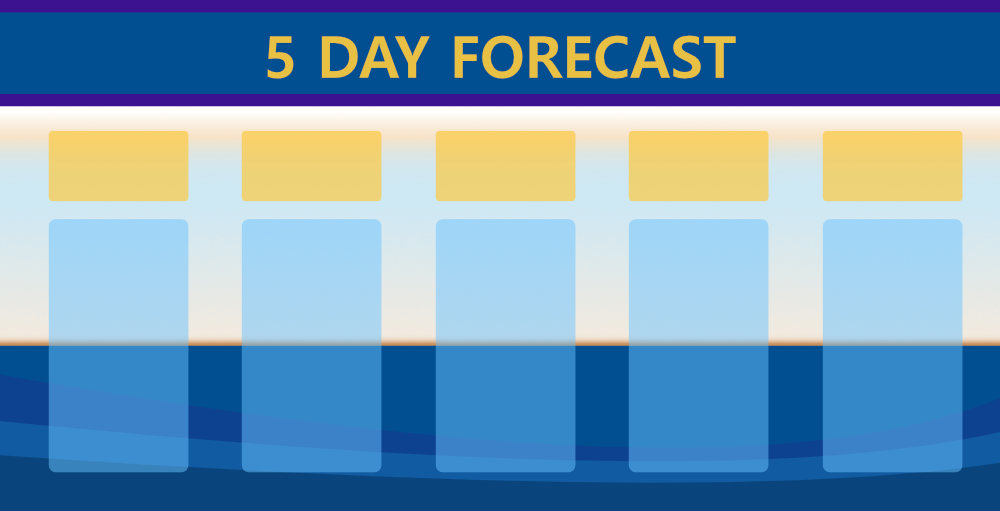
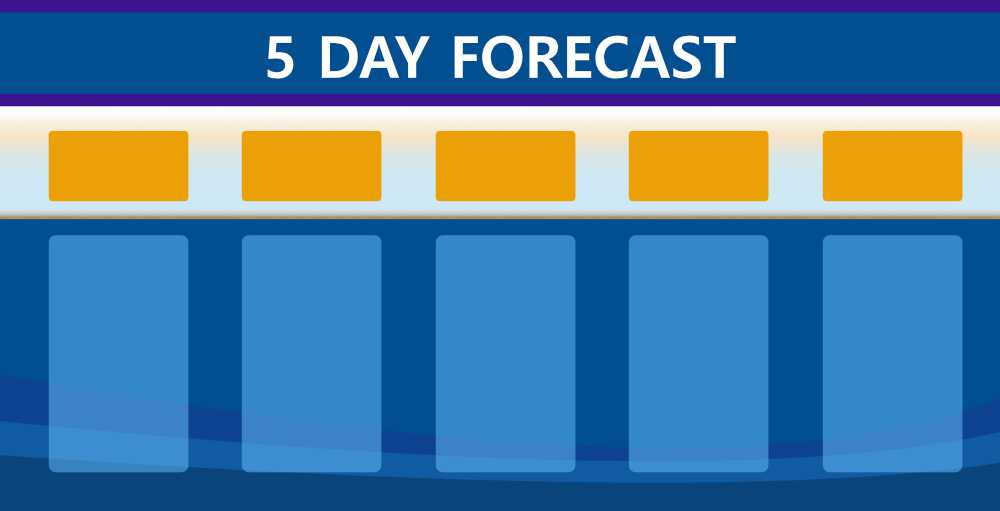
5

diff --git a/lesson-10/preston-10.css b/lesson-10/preston-10.css
@@ -30,22 +30,32 @@ a:link, a:visited {
   font-size: 1.6em;
 }
 
-#fiveDayColumns{
+.fiveDayColumns{
+   font-family: 'abel', sans-serif;
+  font-size: .9em;
+  font-weight: 900;
+    color: white;
+  text-shadow:
+   -.5px -.5px 0 blue;
   display: grid;
-  grid: "myArea myArea myArea myArea myArea"
-  font-size: .6em;
-  grid-gap: 5px;
-  padding: 20px 20px 20px 20px;
-  margin: 20px 20px 20px 20px;
+  height: 300px;
+  width: 100%;
+  padding: 190px 10px 0px 10px;
+  grid-template-columns: repeat(5, 1fr);
+  grid-template-rows: repeat(3, 1fr);
+  grid-column-gap: 5px;
+  grid-row-gap: -200px; 
   text-align: center;
   background: url(https://plewekat.github.io/images/5day1000.jpg);
   background-size: contain;
   background-repeat: no-repeat;
   background-position: center;
-  width: 600px;
+  width: 350px;
 }
 
 #fiveDayAll {
+  height: 250px;
+  width: 100%;
   display: flex;
   align-items: center;
   justify-content: center;
@@ -97,7 +107,7 @@ a:link, a:visited {
 	position: absolute;
 	top: 10px;
 	left: 25px;
-	background-image: linear-gradient(orange, #FDC93D, #F9E24C, #2B0084, #2B0084, #2B0084, #2B0084, #2B0084, #2B0084, #2B0084, #2B0084, #2B0084, #2B0084, #2B0084, #2B0084, #2B0084, #2B0084, #2B0084, #17214E);
+	background-image: linear-gradient(orange, orange, #FDC93D, #F9E24C, #2B0084, #2B0084, #2B0084, #2B0084, #2B0084, #2B0084, #2B0084, #2B0084, #2B0084, #2B0084, #2B0084, #2B0084, #2B0084, #2B0084, #2B0084, #2B0084, #2B0084, #2B0084, #2B0084, #2B0084, #2B0084, #2B0084, #2B0084, #2B0084, #2B0084, #2B0084, #2B0084, #17214E);
 	padding: .7rem;
 	opacity: .9;
   display: flex;
@@ -123,11 +133,11 @@ display: none;
 }
 
 hr.purple {
- border: 10px solid #2F0083;
- 
+ border: 10px solid #2F0083; 
 }
+
 hr.yellow {
-  border: 1px solid #E8C144; 
+  border: 1px solid #E8C144;
 }
 
 #article {
@@ -305,6 +315,17 @@ nav {
 
 @media only screen and (min-width: 32.5em) {
   
+  .fiveDayColumns{
+  font-size: 1em;
+  padding: 170px 10px 0px 10px;
+  width: 400px;
+}
+
+#fiveDayAll {
+  height: 300px;
+}
+
+  
 #weatherColumns span{
     font-size: .6em;
 }
@@ -414,6 +435,19 @@ img {
 
 
 @media only screen and (min-width: 50em) {
+    
+  
+  .fiveDayColumns{
+  font-size: 1.2em;
+  padding: 140px 10px 0px 10px;
+  width: 500px;
+}
+
+#fiveDayAll {
+  height: 400px;
+}
+  
+  
 #weatherColumns span{
     font-size: .7em;
 }

diff --git a/lesson-10/preston-10.html b/lesson-10/preston-10.html
@@ -63,14 +63,17 @@
   <hr>
   
   <div id="fiveDayAll">
-<div id="fiveDayColumns">
-<h2>Forecast Example</h2>
-  <p> High Temperature Forecasts at noon of each day going forward.</p>
-  <p><span id="dayofweek1"></span> : <span id="forecast1"></span>&deg; F</p>
-  <p><span id="dayofweek2"></span> : <span id="forecast2"></span>&deg; F</p>
-  <p><span id="dayofweek3"></span> : <span id="forecast3"></span>&deg; F</p>
-  <p><span id="dayofweek4"></span> : <span id="forecast4"></span>&deg; F</p>
-  <p><span id="dayofweek5"></span> : <span id="forecast5"></span>&deg; F</p>
+<div class="fiveDayColumns">
+  <p><span id="dayofweek1"></span></p>
+  <p><span id="dayofweek2"></span></p>
+  <p><span id="dayofweek3"></span></p>
+  <p><span id="dayofweek4"></span></p>
+  <p><span id="dayofweek5"></span></p>
+  <p><span id="forecast1"></span>&deg;F</p>
+  <p><span id="forecast2"></span>&deg;F</p>
+  <p><span id="forecast3"></span>&deg;F</p>
+  <p><span id="forecast4"></span>&deg;F</p>
+  <p><span id="forecast5"></span>&deg;F</p>
   </div>
   </div>
 

diff --git a/lesson-10/preston-10.js b/lesson-10/preston-10.js
@@ -34,14 +34,14 @@ fetch(forecastURL)
   .then(jsObject => {
     console.log(jsObject);
   
-    const weekdays = ['Sun', 'Mon', 'Tue', 'Wed', 'Thu', 'Fri', 'Sat'];
+    const weekdays = ['SUN', 'MON', 'TUE', 'WED', 'THU', 'FRI', 'SAT'];
     const forecast = jsObject.list.filter(x => x.dt_txt.includes('18:00:00'));
 
     for (let day = 0; day < forecast.length; day++) {
       const today = forecast[day];
       const date = new Date(today.dt_txt);
       document.getElementById(`dayofweek${day+1}`).textContent = weekdays[date.getDay()];
-      document.getElementById(`forecast${day+1}`).textContent = today.main.temp;
+      document.getElementById(`forecast${day+1}`).textContent = today.main.temp_max;
     }
   });
 
